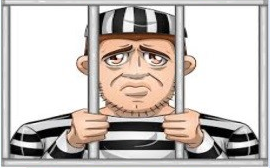
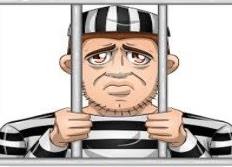
Update image display of detainee

diff --git a/src/app/Cell/CellDetaineeCard/CellDetaineeCardComponent.js b/src/app/Cell/CellDetaineeCard/CellDetaineeCardComponent.js
@@ -1,10 +1,10 @@
 import React from 'react';
 import PropTypes from 'prop-types';
-import { Card, CardMedia, withStyles } from '@material-ui/core';
+import { Card, withStyles } from '@material-ui/core';
 
 import CellDetaineeCardHeader from './CellDetaineeCardHeader';
 import CellDetaineeCardFooter from './CellDetaineeCardFooter';
-import detaineeImage from './detainee.PNG';
+import detaineeImage from './detainee.png';
 
 const propTypes = {
   classes: PropTypes.shape({}).isRequired,
@@ -22,11 +22,9 @@ const CellDetaineeCardComponent = ({ classes, cellDetainee }) => {
   return (
     <Card className={classes.card}>
       <CellDetaineeCardHeader cellDetainee={cellDetainee} />
-      <CardMedia
-        className={classes.media}
-        image={getDetaineeImage()}
-        title={`${cellDetainee.firstName} ${cellDetainee.lastName}`}
-      />
+
+      <img className={classes.media} src={getDetaineeImage()} alt="detainee" />
+
       <CellDetaineeCardFooter cellDetainee={cellDetainee} />
     </Card>
   );
@@ -40,7 +38,9 @@ export default withStyles((theme) => ({
     backgroundColor: '#EBEBEB',
   },
   media: {
-    height: 0,
-    paddingTop: '66.25%', // 16:9
+    height: 168,
+    display: 'block',
+    backgroundSize: 'cover',
+    margin: 'auto',
   },
 }))(CellDetaineeCardComponent);
